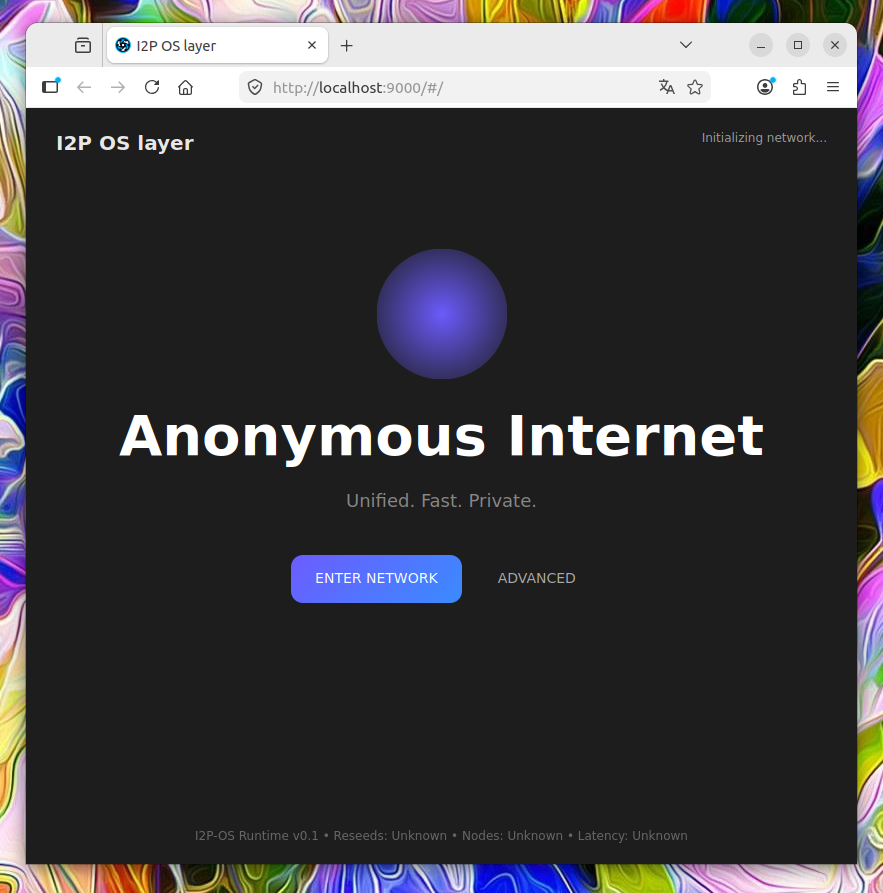
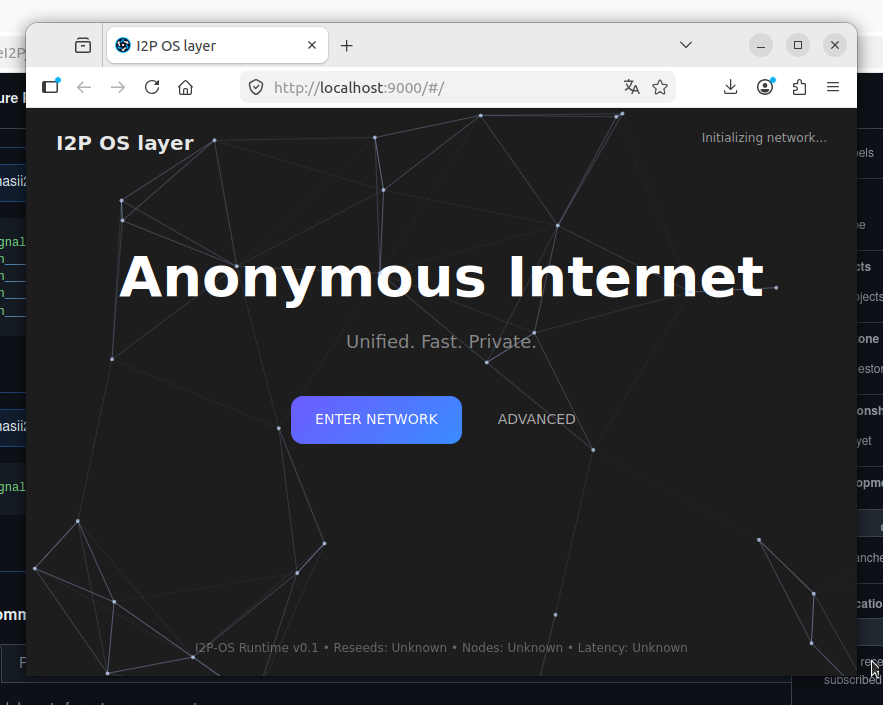
Update animation & screenshot

diff --git a/i2p-os-facade-quasar-app/i2p-os/index.html b/i2p-os-facade-quasar-app/i2p-os/index.html
@@ -5,8 +5,92 @@
     <meta charset="utf-8">
     <meta name="viewport" content="width=device-width, initial-scale=1">
     <title>I2P OS layer</title>
+    <style>
+	  html, body {
+	    margin: 0;
+	    padding: 0;
+	    overflow: hidden;
+	    background: radial-gradient(circle at center, #0d0d30, #1a1a40, #2a2a60);
+	  }
+	  canvas {
+	    display: block;
+	    z-index: 1;
+	    position: fixed;
+	  }
+	  #content {
+	    z-index: 0;
+	  }
+    </style>
   </head>
   <body>
-    <!-- quasar:entry-point -->
+    <canvas id="network"></canvas>
+    <script>
+	const canvas = document.getElementById('network');
+	const ctx = canvas.getContext('2d');
+	let width = canvas.width = window.innerWidth;
+	let height = canvas.height = window.innerHeight;
+
+	const NODE_COUNT = 80;
+	const MAX_DIST = 200;
+
+	let nodes = [];
+	for(let i=0;i<NODE_COUNT;i++){
+	  nodes.push({
+	    x: Math.random()*width,
+	    y: Math.random()*height,
+	    vx: (Math.random()-0.5)*0.5,
+	    vy: (Math.random()-0.5)*0.5
+	  });
+	}
+
+	function draw(){
+	  ctx.clearRect(0,0,width,height);
+	  
+	  // draw lines
+	  for(let i=0;i<NODE_COUNT;i++){
+	    for(let j=i+1;j<NODE_COUNT;j++){
+	      let dx = nodes[i].x - nodes[j].x;
+	      let dy = nodes[i].y - nodes[j].y;
+	      let dist = Math.sqrt(dx*dx + dy*dy);
+	      if(dist < MAX_DIST){
+	        const opacity = 1 - dist/MAX_DIST;
+	        ctx.strokeStyle = 'rgba(180,200,255,' + (opacity*0.6) + ')';
+	        ctx.lineWidth = 1;
+	        ctx.beginPath();
+	        ctx.moveTo(nodes[i].x, nodes[i].y);
+	        ctx.lineTo(nodes[j].x, nodes[j].y);
+	        ctx.stroke();
+	      }
+	    }
+	  }
+	  
+	  // move nodes
+	  for(let i=0;i<NODE_COUNT;i++){
+	    nodes[i].x += nodes[i].vx;
+	    nodes[i].y += nodes[i].vy;
+	    
+	    if(nodes[i].x < 0 || nodes[i].x > width) nodes[i].vx *= -1;
+	    if(nodes[i].y < 0 || nodes[i].y > height) nodes[i].vy *= -1;
+	    
+	    // draw nodes
+	    ctx.fillStyle = 'rgba(200,220,255,0.7)';
+	    ctx.beginPath();
+	    ctx.arc(nodes[i].x,nodes[i].y,2,0,Math.PI*2);
+	    ctx.fill();
+	  }
+
+	  requestAnimationFrame(draw);
+	}
+
+	window.addEventListener('resize', () => {
+	  width = canvas.width = window.innerWidth;
+	  height = canvas.height = window.innerHeight;
+	});
+
+	draw();
+    </script>
+    <div id="content">
+      <!-- quasar:entry-point -->
+    </div>
   </body>
 </html>

diff --git a/i2p-os-facade-quasar-app/i2p-os/quasar.config.ts b/i2p-os-facade-quasar-app/i2p-os/quasar.config.ts
@@ -15,7 +15,7 @@ export default defineConfig((ctx) => {
     boot: ['i18n', 'axios'],
 
     // https://v2.quasar.dev/quasar-cli-vite/quasar-config-file#css
-    css: ['app.scss'],
+    css: ['app.css'],
 
     // https://github.com/quasarframework/quasar/tree/dev/extras
     extras: [
@@ -90,7 +90,6 @@ export default defineConfig((ctx) => {
               useFlatConfig: true,
             },
           },
-          { server: false },
         ],
       ],
     },

diff --git a/i2p-os-facade-quasar-app/i2p-os/src/css/app.css b/i2p-os-facade-quasar-app/i2p-os/src/css/app.css
@@ -67,18 +67,3 @@ body {
   font-size: 12px;
   color: #666;
 }
-
-.pulse {
-  width: 120px;
-  height: 120px;
-  margin: 0 auto 20px;
-  border-radius: 50%;
-  background: radial-gradient(circle, #6c5cff, transparent);
-  animation: pulse 2s infinite;
-}
-
-@keyframes pulse {
-  0% { transform: scale(0.9); opacity: 0.6; }
-  50% { transform: scale(1.1); opacity: 1; }
-  100% { transform: scale(0.9); opacity: 0.6; }
-}

diff --git a/i2p-os-facade-quasar-app/i2p-os/src/App.vue b/i2p-os-facade-quasar-app/i2p-os/src/App.vue
@@ -25,5 +25,5 @@
   </q-layout>
 </template>
 
-<script setup>
+<script setup lang="ts">
 </script>
